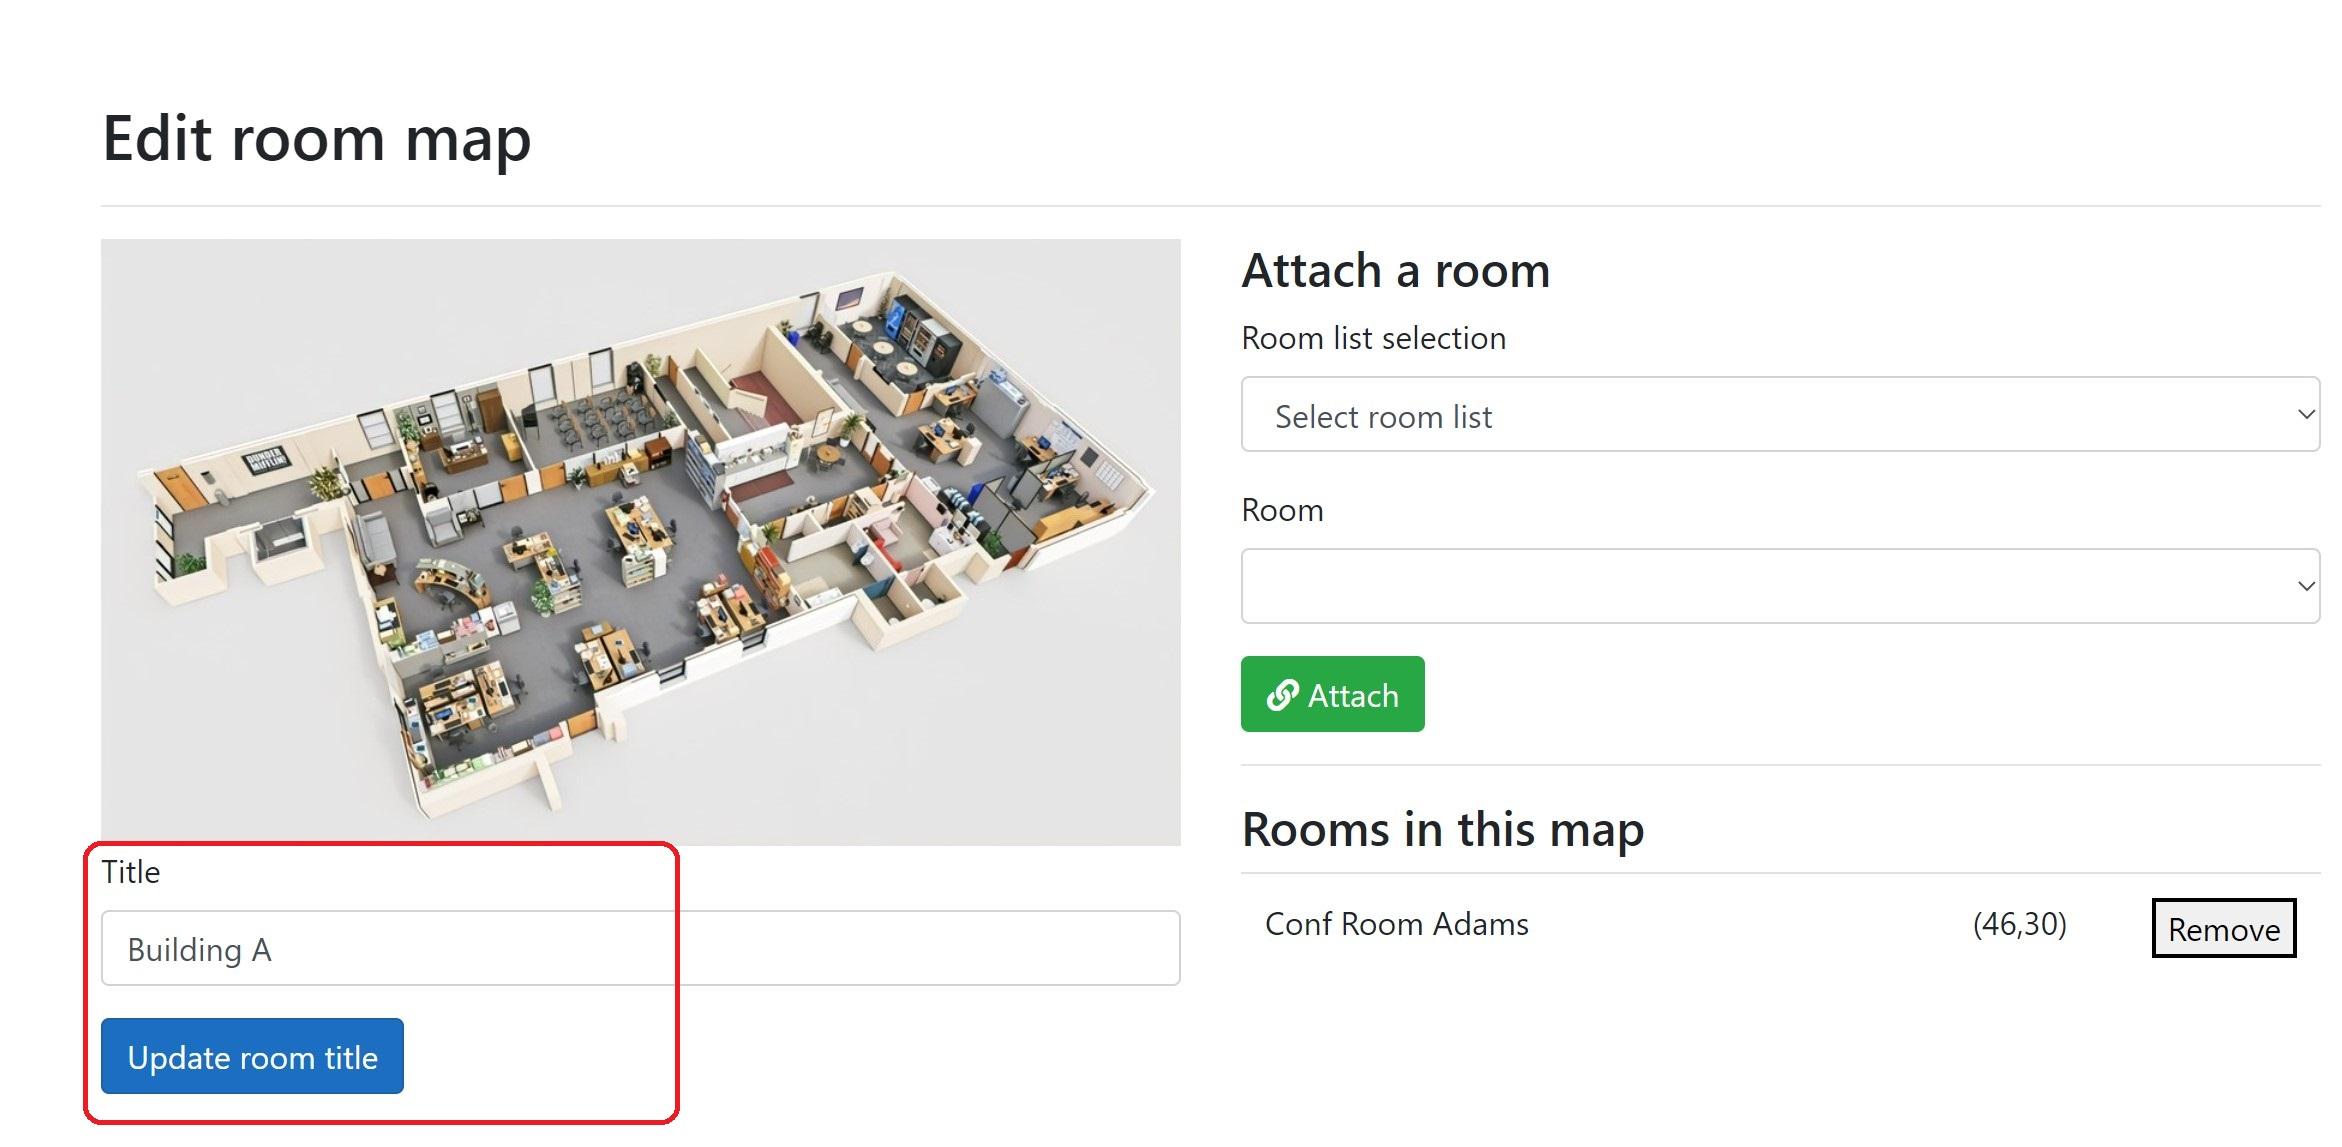
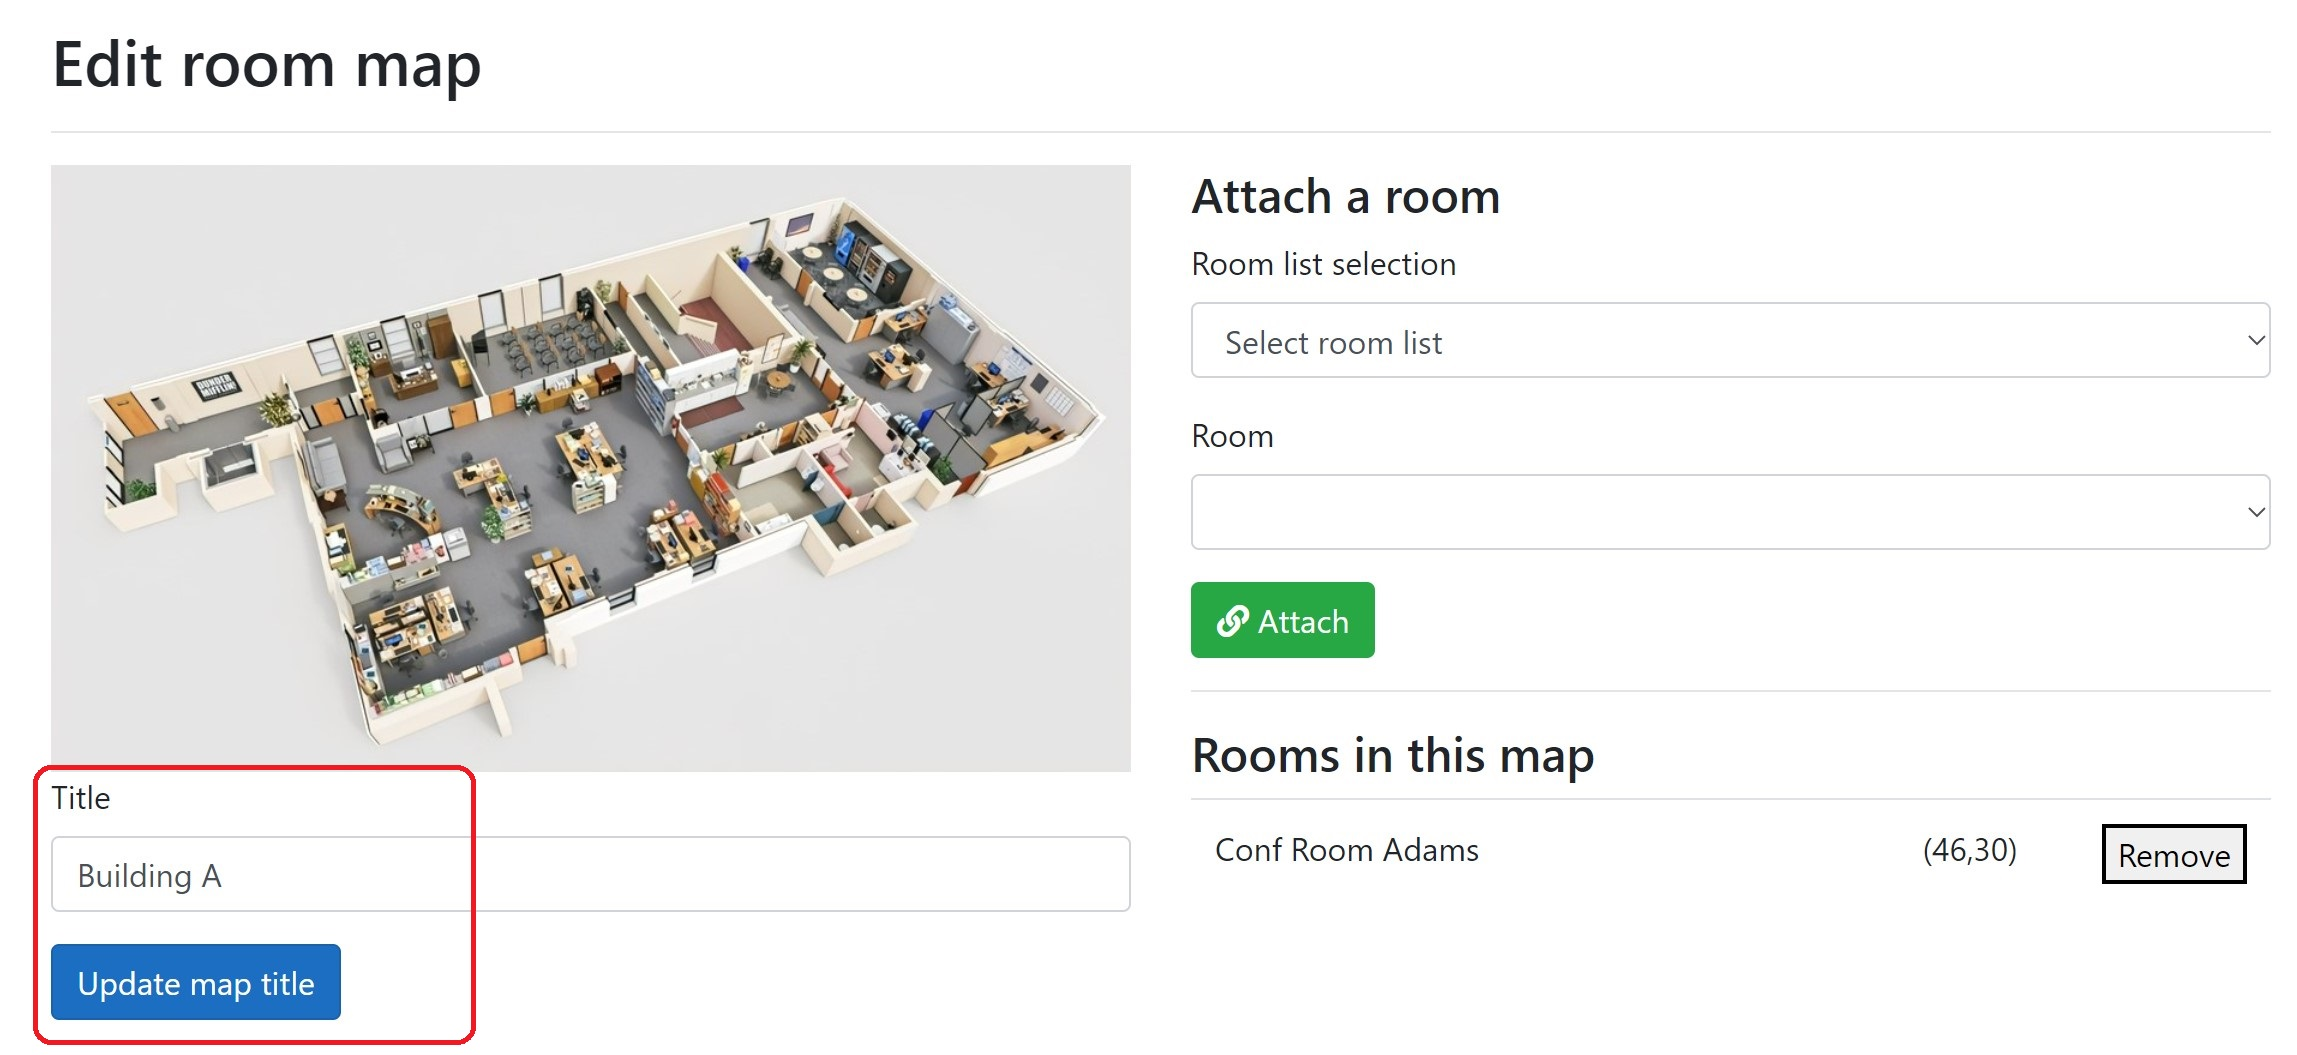
adding custom locations admin tasks

diff --git a/content/en/Tasks/CustomLocations/index.md b/content/en/Tasks/CustomLocations/index.md
@@ -1,0 +1,44 @@
+---
+title: "Custom locations"
+linkTitle: "Create and map custom locations"
+tags: ["AdminSite", "CustomLocations", "Reservations"]
+weight: 40
+description: >
+  Create custom locations and map these to floorplans. Custom locations also form the basis for the Reservations functionality.
+---
+
+Use custom locations to map anything other than meeting rooms and people. 
+
+## Create a custom location
+
+To create a new custom location, navigate to the [Custom](https://www.meetingroommap.net/CustomLocation) page.
+
+1) On the Custom Locations page, click the "+ Add new custom location" - a pop-up displays to enter details of the new custom location
+2) Give the location a name and a category - the category can be used to filter by in the add-ins and webparts.
+3) Click save
+
+{{< imgproc newCustomLocation Resize "880x" >}}
+{{< /imgproc >}}
+
+{{% alert title="Reservations add-in rely on custom locations" color="info" %}}
+The [Reservations Teams add-in](/addins/reservation/reservations/) rely on items defined as custom locations. So i.e. to use as a reservation system for desks in a flexible office setup,  create the individual desks as custom locations and map these to floorplans.
+{{% /alert %}}
+
+## Map a custom location
+
+Once a new custom location has been created, it can be mapped to a floorplan:
+
+1) Find the custom location to map in the list (use sorting, paging and search to quickly find the correct location - a newly created location will also appear in red text to help quickly locate it)
+2) Click "Attach to map" button
+3) A popup "Select map to attach to" with all available floorplans displays - click the floorplan to map to
+4) A popup windows with the floorplan is opened - click the location of the custom location to create the mapping
+
+
+#### Removing mapping
+
+An existing mapping can be removed by clicking the "Remove" button for a specific location in the list. (NB. requires the role "MeetingRoomEditor" to view the "Remove" button and be allowed to remove).
+
+
+## Delete a custom location
+
+A custom location can be completely removed including the mapping information by clicking the thrashcan icon for a specific location.

diff --git a/content/en/Tasks/Floorplans/index.md b/content/en/Tasks/Floorplans/index.md
@@ -38,11 +38,10 @@ For best display try to upload images that are close to a square form, and not h
 
 The name of a floorplan will initially be the same as the filename of the uploaded image.
 
-To rename a floorplan, go to the [Images](https://www.meetingroommap.net/MapImage) page and click the "Attach rooms" button for the floorplan to edit. From within the "Edit room map" page, change the "Title" field and click "Update room title".
+To rename a floorplan, go to the [Images](https://www.meetingroommap.net/MapImage) page and click the "Attach rooms" button for the floorplan to edit. From within the "Edit room map" page, change the "Title" field and click "Update map title".
 
 {{< imgproc rename Resize "880x" >}}
 {{< /imgproc >}}
-
 
 ## Delete a floorplan
 

diff --git a/content/en/Tasks/MeetingRooms/index.md b/content/en/Tasks/MeetingRooms/index.md
@@ -19,7 +19,7 @@ Rooms can optionally be organized in room lists - see [https://docs.microsoft.co
 
 Mapping a meeting room to a floorplan can be done in two ways in the admin web site:
 
-1) Per image/floorplan from [Images](https://www.meetingroommap.net/MapImage) page by clicking "Attach rooms" button for an image"
+1) Per image/floorplan from [Images](https://www.meetingroommap.net/MapImage) page by clicking "Attach rooms" button for an image
 2) From the [Rooms](https://www.meetingroommap.net/Rooms) page.
 
 ### 1. Mapping from Image list
